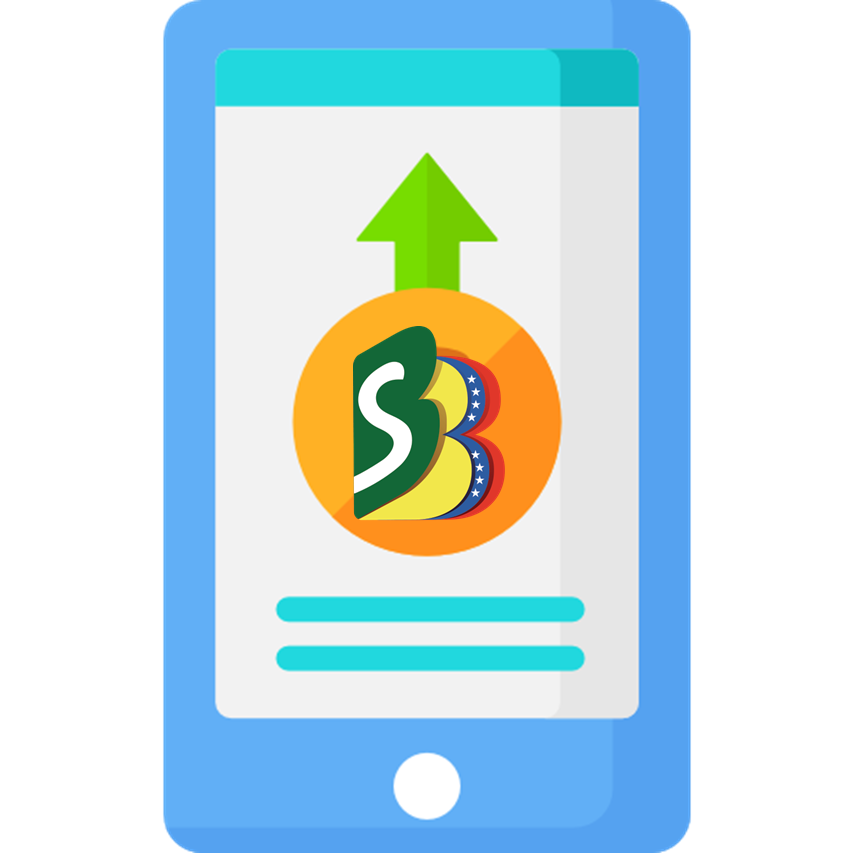
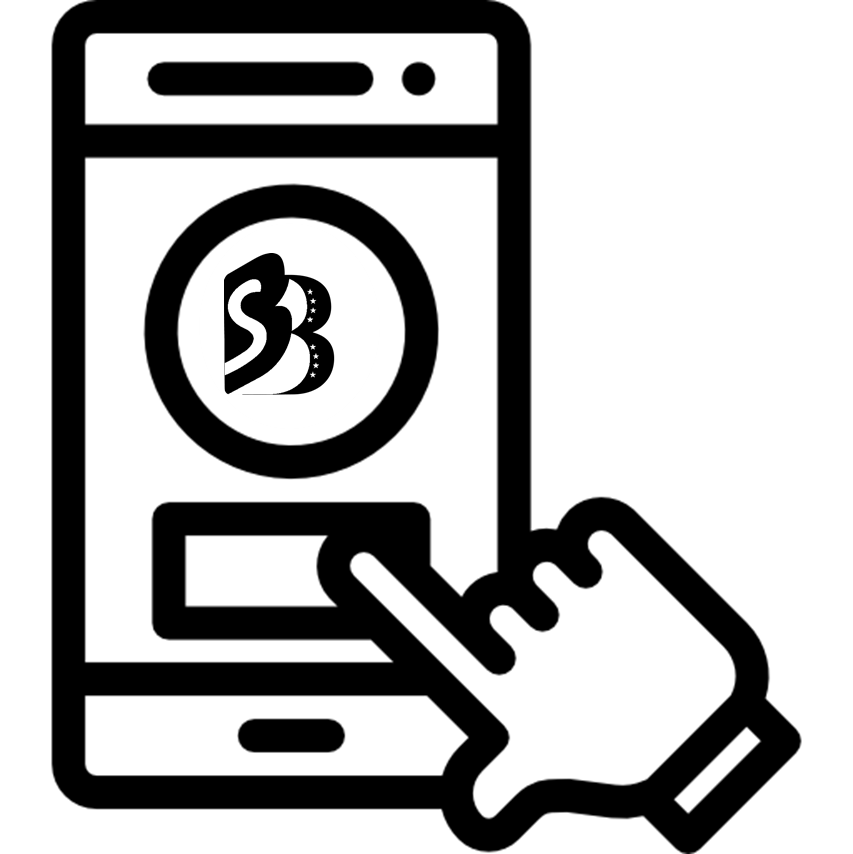
Nuevos iconos, modal de declaraion jurada

diff --git a/resources/views/modules/taxes/register.blade.php b/resources/views/modules/taxes/register.blade.php
@@ -102,8 +102,8 @@
                                     <p>Yo, <b>{{ Auth::user()->name . " " . Auth::user()->surname }}</b> titular de la C.I. N° <b>{{ Auth::user()->ci }}</b> y de domicilio en <b>{{ Auth::user()->address }}</b>, declaro bajo Fé de Juramento que todos los datos suministrados son  correctos y fehacientes, igualmente autorizo suficientemente al <b>Servicio Municipal de Administración Tributaria (SEMAT)</b> a efecto de verificar la veracidad de lo aquí declarado.<br>A los <b>Numero</b> días del mes de <b>Mes</b> del año <b>Año</b>.</p>
                                 </div>
                                 <div class="modal-footer">
-                                    <a href="#!" class="modal-close waves-effect waves-green btn-flat">Cancelar</a>
-                                    <a href="#!" class="modal-close waves-effect waves-green btn-flat">Yo Declaro</a>
+                                    <a href="#!" class="modal-close btn btn-flat waves-effect waves-green">Cancelar</a>
+                                    <a href="#!" class="modal-close btn peach waves-effect waves-light ">Yo Declaro</a>
                                 </div>
                               </div>
                         </div>

diff --git a/resources/views/includes/auth/header.blade.php b/resources/views/includes/auth/header.blade.php
@@ -2,7 +2,7 @@
     @if (Route::currentRouteName() == "login" || Route::currentRouteName() == "")
     <ul class="sidenav sidenav-fixed hide-on-small-only z-depth-1" id="side-login">
         <li>
-            <a href="" class="logo-container font-audiowide center-align">
+            <a href="" class="logo-container font-ubuntu center-align">
                 <img src="{{ asset('images/iribarren_logo.png') }}" alt="" srcset="">                    
             </a>
         </li>

diff --git a/resources/views/includes/app/header.blade.php b/resources/views/includes/app/header.blade.php
@@ -1,7 +1,7 @@
 <header>
     <nav class="container-fluid iribarren-wine-gradient">
         <div class="nav-wrapper">
-            <a href="{{ url('/') }}" class="brand-logo font-audiowide">SEMAT</a>
+            <a href="{{ url('/') }}" class="brand-logo font-ubuntu">SEMAT</a>
             {{-- Sidenav Trigger --}}
             <a href="#" data-target="sidenav-menu" class="sidenav-trigger"><i class="icon-menu"></i></a>
             {{-- Authenticacion links --}}
